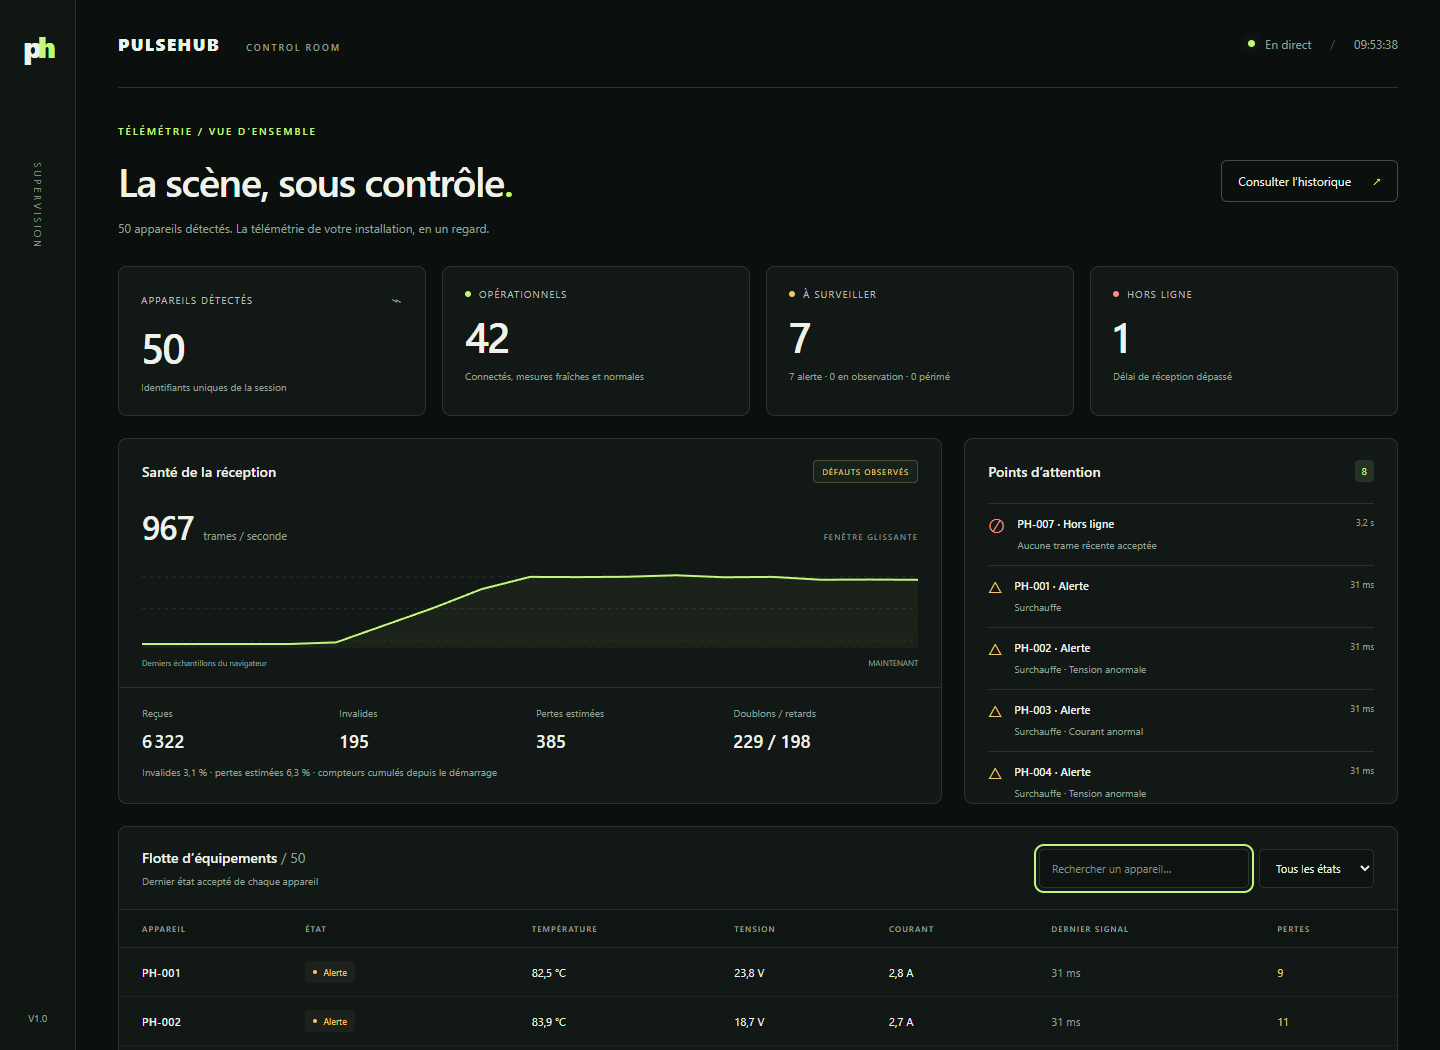
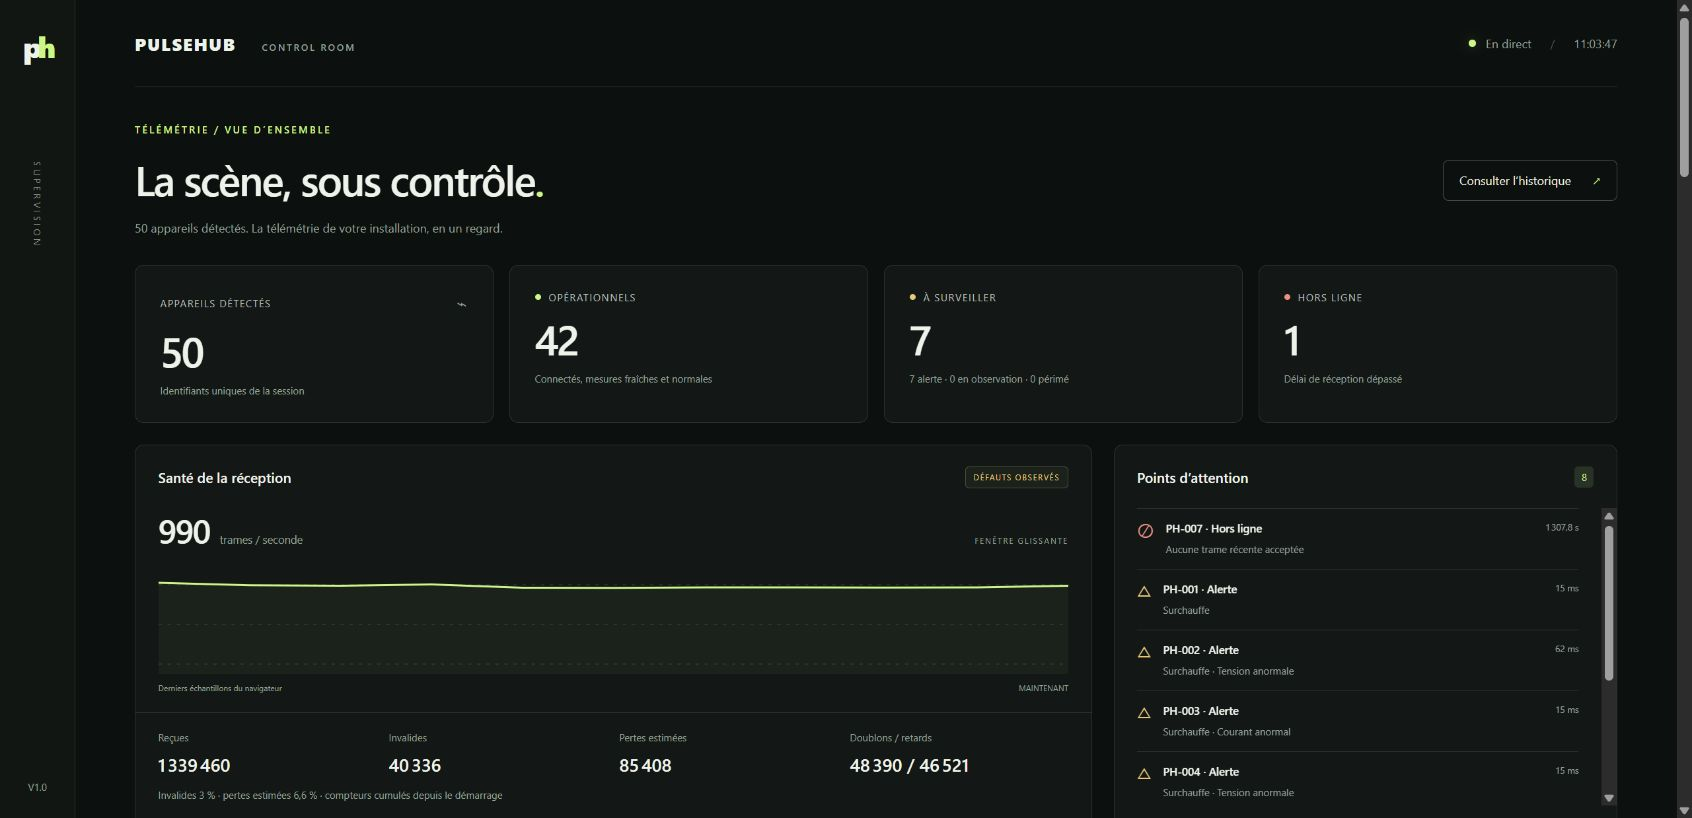
docs: explain web and terminal workflows with current screenshots

diff --git a/README.md b/README.md
@@ -4,6 +4,8 @@ Hub de télémétrie UDP pour une régie événementielle. Réception de PulseHu
 
 ![Tableau de bord PulseHub avec 50 appareils et défauts injectés](docs/dashboard.png)
 
+Accès rapide : [démarrage](#démarrer-en-moins-de-cinq-minutes) · [interface web](#interface-web) · [interface CLI](#tableau-de-bord-terminal) · [configuration](#commandes-et-configuration).
+
 ## Démarrer en moins de cinq minutes
 
 Prérequis : **Node.js 22.15 ou supérieur**, npm et Git. Version utilisée pour la validation : Node 22.15.1, Windows 11. Aucune base de données, aucun compte externe, aucun secret et aucune dépendance applicative d’exécution. Les outils de développement sont verrouillés dans `package-lock.json`.
@@ -49,19 +51,66 @@ npm run check
 
 `check` exécute lint, vérification TypeScript stricte, tests unitaires/intégration et compilation. Pour lancer le code compilé : `npm run build`, puis `node dist/hub.js` ou `node dist/simulator.js`. Les dossiers `config/` et `public/` restent nécessaires à côté de `dist/`.
 
-## Commandes et configuration
+## Utiliser les interfaces
+
+Les deux interfaces affichent **les données du même hub** et peuvent être ouvertes simultanément. Dans la démo, les 50 appareils sont simulés : ils envoient de vraies trames UDP sur la machine locale. Le hub les valide, calcule les états et expose la synthèse ; les interfaces ne génèrent pas les mesures. Il n’y a pas de recherche automatique d’appareils sur le réseau.
+
+### Interface web
+
+1. Lancer `npm run hub`, puis `npm run demo` dans un second terminal, depuis le dossier du projet. Utiliser `npm run simulator` à la place de `demo` pour un flux sans défauts injectés.
+2. Ouvrir **http://127.0.0.1:3000**. Le hub fournit directement la page web, sans serveur front séparé.
+3. Lire le bandeau **En direct** : le navigateur reçoit une synthèse par SSE toutes les 500 ms par défaut. En cas de coupure, il indique **Déconnecté · données figées** et tente de se reconnecter.
+
+La capture en tête de ce README montre la vue d’ensemble réelle de la démo. Les chiffres varient pendant l’exécution.
+
+| Zone à l’écran | Comment la lire ou l’utiliser |
+| --- | --- |
+| **Appareils détectés / Opérationnels / À surveiller / Hors ligne** | Résumé de toute la flotte. « À surveiller » regroupe les alertes actives, les anomalies encore en observation et les mesures périmées. |
+| **Santé de la réception** | Débit UDP reçu, graphe récent, trames invalides, pertes estimées et doublons/retards. Les compteurs restent cumulés depuis le démarrage du hub ; les pertes sont des trous de séquence estimés. |
+| **Points d’attention** | Appareils nécessitant une vérification, avec les hors-ligne en priorité et le motif des alertes. |
+| **Flotte d’équipements** | Dernière température en °C, tension en V, courant en A, âge du signal et pertes de chaque appareil. Une ancienne mesure reste visible en grisé. Les agrégats configurés apparaissent sous les mesures, les redémarrages sous l’identifiant. |
+| **Rechercher un appareil / filtre d’état** | Saisir `009` ou `PH-009` pour isoler un appareil, ou choisir « À surveiller », « Opérationnels » ou « Hors ligne ». Ces filtres concernent la table ; les compteurs du haut restent ceux de la flotte entière. |
+| **Consulter l’historique** | Ouvrir le panneau, puis choisir une date dans « Instantané enregistré ». Le bandeau passe en **Lecture historique** ; table, compteurs et alertes affichent l’instant choisi. Cliquer **Revenir au direct** pour reprendre le suivi courant. |
+
+**Exemple : retrouver un appareil redémarré.** Après 13 secondes de démo, rechercher `009`. La ligne PH-009 indique un redémarrage et une moyenne de température recalculée depuis sa nouvelle session. Dans la même démo, PH-007 devient hors ligne après son arrêt. Effacer la recherche pour retrouver toute la flotte.
+
+![Recherche de PH-009 dans le navigateur, avec moyenne de température et redémarrage détecté](docs/web-device.png)
+
+L’historique est enregistré toutes les 5 secondes par défaut : patienter si aucun instantané n’est encore disponible. Consulter l’historique ne suspend pas la réception du hub. Sur un petit écran, faire défiler le tableau horizontalement pour accéder à toutes les colonnes.
 
 ### Tableau de bord terminal
 
 Avec le hub déjà lancé, ouvrir un terminal supplémentaire et lancer **`npm run cli`**. Le CLI reprend la flotte, le débit, les alertes et les agrégations du même serveur, avec navigation au clavier, recherche, filtres, pause et historique.
 
-`↑↓` sélectionne un appareil, `/` lance une recherche, `f` change le filtre, `Espace` fige l’affichage, `h` ouvre l’historique, `?` affiche l’aide et `q` quitte. Préférer une fenêtre de 130 × 42 caractères.
+```sh
+npm run cli
+```
+
+Préférer une fenêtre de **130 × 42 caractères**. Les cartes et le graphe résument la flotte ; la table se parcourt au clavier et le panneau du bas affiche les détails de l’appareil sélectionné : séquence, uptime, redémarrages, agrégations et alertes. Le CLI interroge `/api/state`, puis attend 500 ms avant la prochaine requête. Il retrouve automatiquement le hub après une coupure.
+
+| Touche | Action |
+| --- | --- |
+| `↑` / `↓` | Sélectionner un appareil et lire son détail en bas |
+| `Page précédente` / `Page suivante` ou `p` / `n` | Parcourir les pages de la flotte |
+| `/`, puis `009`, puis `Entrée` | Rechercher PH-009 ; `Échap` efface la recherche hors saisie |
+| `f` | Passer de tous les appareils aux états à surveiller, hors ligne ou opérationnels |
+| `Espace` | Figer / reprendre l’affichage ; le hub continue de recevoir |
+| `h` | Ouvrir l’historique / revenir au direct |
+| `←` / `→` ou `[` / `]` | Parcourir les instantanés historiques |
+| `?` | Afficher / masquer l’aide |
+| `q` / `Ctrl+C` | Quitter le CLI, sans arrêter le hub ni le simulateur |
+
+**EN DIRECT**, **PAUSE / DONNÉES FIGÉES**, **HISTORIQUE** et **HUB DÉCONNECTÉ** distinguent les modes. `~` signale une mesure périmée ; `—` indique une valeur indisponible. La colonne « MOY. TEMP. » affiche la première moyenne de température configurée, dont le libellé et le nombre d’échantillons sont précisés dans le détail.
 
 Le [guide terminal](docs/terminal.md) détaille les raccourcis, les options, la reconnexion et la sortie texte `--once`.
 
 ![Rendu terminal avec les données du hub local](docs/terminal.png)
 
-### Hub et simulateur
+Cet aperçu est exporté par le même moteur de rendu que le CLI, avec les données de la démo locale au moment de la capture. Les deux images web sont des captures du navigateur. Elles ne représentent pas des appareils physiques connectés.
+
+Pour produire un instantané texte sans interaction : `npm.cmd run cli -- --once --no-color`. Pour utiliser un autre hub : `npm.cmd run cli -- --url http://127.0.0.1:3010`. Le CLI se trouve sur `main` ; il n’est pas inclus dans le tag historique `v1.0`.
+
+## Commandes et configuration
 
 ```sh
 npm run hub -- --udp-port 9001 --http-port 3001
@@ -142,8 +191,10 @@ flowchart LR
     DROP --> SNAP
     FLEET --> SNAP
     SNAP -->|SSE toutes les 500 ms| WEB[Tableau de bord local]
+    SNAP -->|API HTTP interrogée par le CLI| TERM[Tableau de bord terminal]
     SNAP -->|toutes les 5 s| DISK[Historique JSONL borné]
     DISK -->|API historique| WEB
+    DISK -->|API historique| TERM
 ```
 
 | Fichier | Responsabilité |
@@ -156,6 +207,7 @@ flowchart LR
 | `src/server.ts` | Adaptateurs UDP, HTTP, SSE et cycle de vie |
 | `src/history.ts` | Écriture, rotation et lecture des instantanés |
 | `src/hub.ts` | Point d’entrée CLI du hub |
+| `src/cli.ts`, `src/terminal/` | Tableau de bord terminal, lecture HTTP, navigation clavier et rendu ANSI |
 | `src/simulator.ts` | Appareils virtuels et injection des défauts |
 | `public/` | Affichage, filtres, recherche et consultation de l’historique |
 
